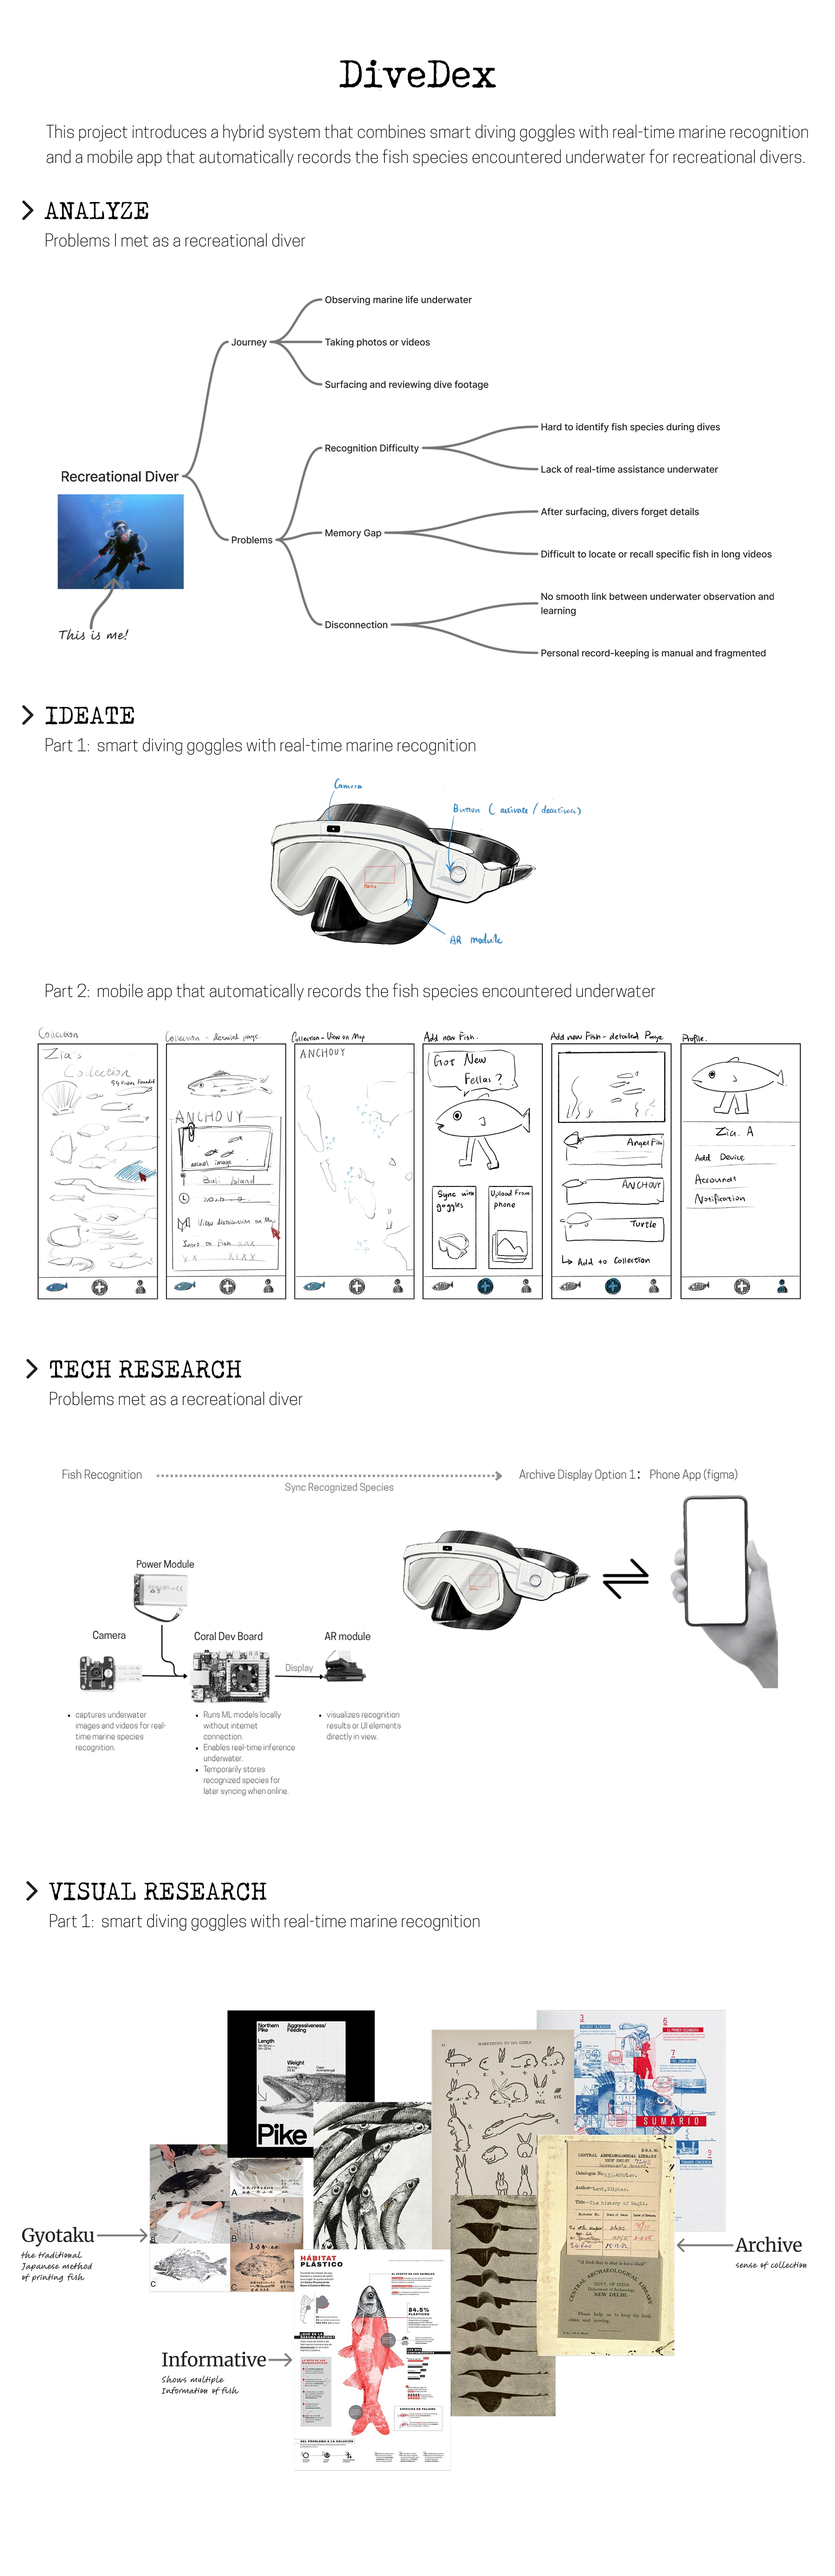
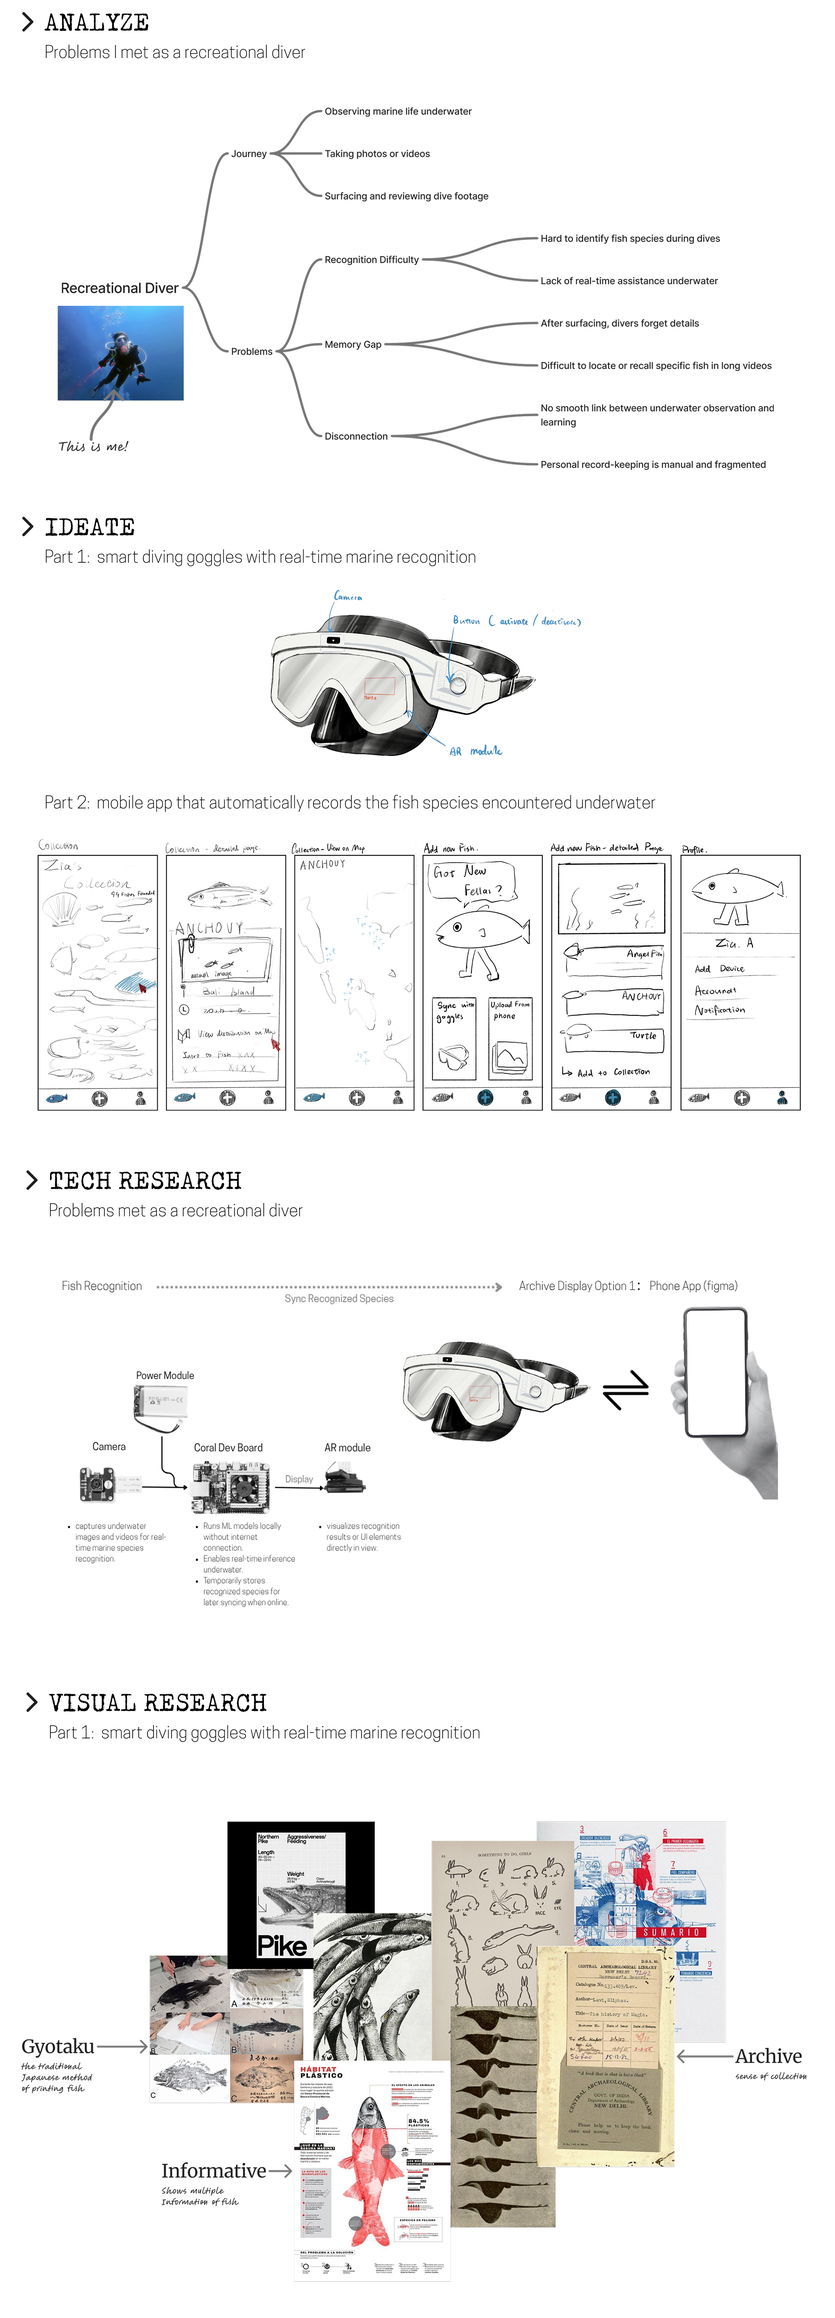
update divedex

diff --git a/components/ProjectStory.module.css b/components/ProjectStory.module.css
@@ -179,7 +179,6 @@
   box-shadow: none;
   display: flex;
   flex-direction: column;
-  background: #000;
 }
 
 .splitFigure img {
@@ -275,7 +274,6 @@
   padding: 0.9rem clamp(1rem, 3vw, 1.6rem);
   font-size: 0.95rem;
   line-height: 1.6;
-  background: rgba(247, 243, 235, 0.45);
   backdrop-filter: blur(14px);
   color: rgba(31, 32, 32, 0.8);
 }
@@ -295,7 +293,6 @@
   border-radius: 0;
   overflow: hidden;
   box-shadow: none;
-  background: #000;
   display: flex;
   flex-direction: column;
 }
@@ -309,10 +306,12 @@
 
 .galleryCaption {
   padding: 0.75rem clamp(0.9rem, 2.3vw, 1.4rem);
-  color: rgba(255, 255, 255, 0.84);
-  background: rgba(21, 21, 21, 0.82);
+  color: #7a7a7a;
+  background: none;
   font-size: 0.95rem;
   line-height: 1.55;
+  text-align: center;
+  font-family: "jetbrains-mono", monospace;
 }
 
 .stepsList {
